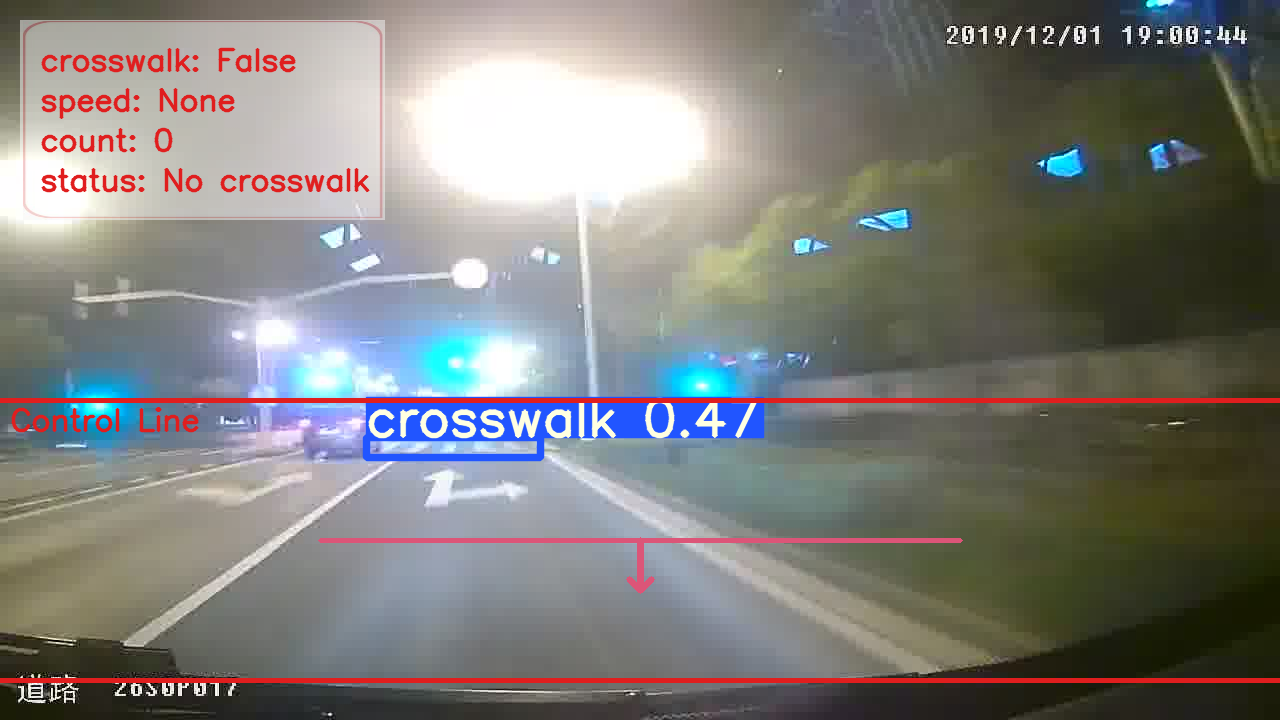
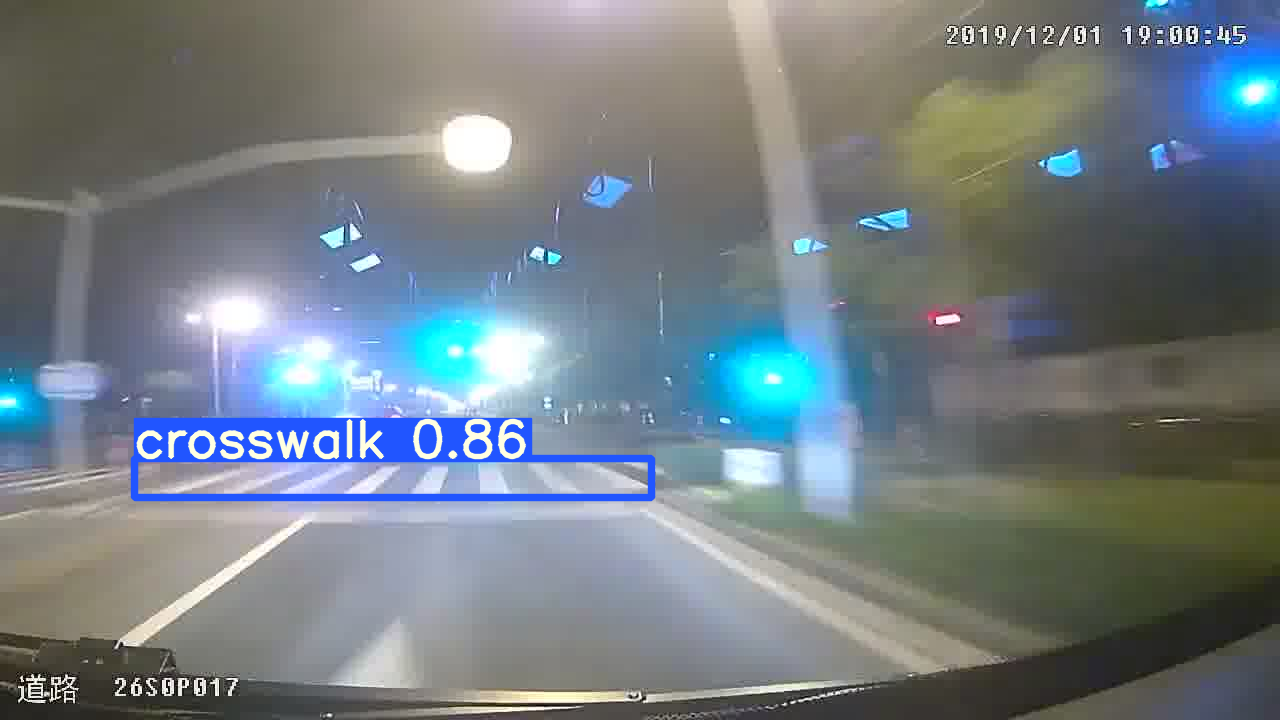
Parameters are specified as an option

diff --git a/road_detection/cdnet/post_utils.py b/road_detection/cdnet/post_utils.py
@@ -10,15 +10,15 @@ import numpy as np
 class DmPost(object):
     """damei post"""
 
-    def __init__(self):
+    def __init__(self, clrl):
         self.crossout = self.init_crossout()
         self.vetors = self.init_vectors()
         self.old_vectors, self.frame_thresh, self.old_fileorder = \
             self.init_jitter_pretection_params()  # Used for jitter protection
-        self.rect = self.init_rect()
+        self.rect = cv2.imread("settings/rect.jpg")
         self.t_inter = self.init_others()
-        self.control_line = (400, 680)
-        self.red_line = 0.5
+        self.control_line = clrl['control_line']
+        self.red_line = clrl['red_line']
         self.det_id = 0
         self.v_idx = 0
 
@@ -41,16 +41,12 @@ class DmPost(object):
 
         return vectors
 
-    def init_rect(self):
-        img_size = (720, 1280)
+    def init_rect(self, shape):
+        h, w = shape[:2]
         scale_factor = 3.5
-        resized_width = int(img_size[1] / scale_factor)
-
-        rect = cv2.imread("settings/rect.jpg")
+        resized_width = int(w / scale_factor)
         rect_resized_size = (resized_width, 200)
-        rect = cv2.resize(rect, rect_resized_size, interpolation=cv2.INTER_LINEAR)
-
-        return rect
+        self.rect = cv2.resize(self.rect, rect_resized_size, interpolation=cv2.INTER_LINEAR)
 
     def init_jitter_pretection_params(self, time_thresh=2):
         # The sampling rate of the original video, 1 frame corresponds to 1/25 = 40ms
@@ -113,7 +109,7 @@ class DmPost(object):
 
         cv2.line(img, top[0], top[1], color=(30, 30, 224), thickness=lt)
         cv2.line(img, button[0], button[1], color=(30, 30, 224), thickness=lt)
-        cv2.line(img, middle[0], middle[1], color=(120, 85, 220), thickness=lt)  # 粉色
+        cv2.line(img, middle[0], middle[1], color=(120, 85, 220), thickness=lt)  # pink
         cv2.arrowedLine(img, arrow[0], arrow[1], (120, 85, 220), 5, 8, 0, 0.3)
         cv2.putText(img, 'Control Line', textpos, 0, lt / 3, (30, 30, 224), thickness=tf, lineType=cv2.LINE_AA)
 
@@ -148,7 +144,7 @@ class DmPost(object):
                     distances = np.sum(np.square(currentcxy - lastcxy), axis=1)  # distance
                     valid_idx = np.argmin(distances)
 
-                print(f'WANING: detect.py post, the detected crosswalk is more than one, use the {valid_idx + 1} one')
+                print(f'WANING: the detected crosswalk is more than one, use the {valid_idx + 1} one')
                 crosswalk = crosswalk[valid_idx, :].reshape(1, -1)
                 det = det[valid_idx, :].reshape(1, -1)
         else:
@@ -163,7 +159,8 @@ class DmPost(object):
             crossout[det_id, 4:6] = crosswalk[0, 5: 7]  # xc, yc
             index = det_id
         else:
-            crossout[0:-1:, 1::] = crossout[1::, 1::]  # 除了序号列的所有行向上平移一格
+            # All rows except the serial number column are shifted up by one grid
+            crossout[0:-1:, 1::] = crossout[1::, 1::]
             # Last column update value
             crossout[-1, 1] = det_id
             crossout[-1, 2] = det_id
@@ -192,6 +189,7 @@ class DmPost(object):
         # The y distance of the vector is divided by the scale and then divided by the time interpolate
 
         # Draw results
+        self.init_rect(img.shape)
         rect_pos = (20, 20)
         img = self.imgAdd(self.rect, img, rect_pos[1], rect_pos[0], alpha=0.5)
 
@@ -234,7 +232,7 @@ class DmPost(object):
                     else:
                         crossout[index, 6] += 1  # count+1
                         prt_str = \
-                            f'\nThe vehicle crossed a crosswalk!!' \
+                            f'\n > The vehicle crossed a crosswalk!!' \
                             f' count+1, conf: {crosswalk[0, 4]:.2f},' \
                             f' current count: {int(crossout[index, 6])}.'
                         print(prt_str)
@@ -250,7 +248,7 @@ class DmPost(object):
         status = 'No crosswalk' if vt.shape[0] == 0 else 'Crossing'
         self.imgputText(img, f'status: {status}', pos, lt, tf)
 
-        prt_str = f'detect_id: {det_id} speed: {speed} count: {count} status: {status}'
+        prt_str = f' > detect_id: {det_id} speed: {speed} count: {count} status: {status}'
         print(prt_str)
 
         return img

diff --git a/road_detection/cdnet/cdnet.py b/road_detection/cdnet/cdnet.py
@@ -1,5 +1,6 @@
 import sys
 import time
+import yaml
 
 import numpy as np
 import cv2
@@ -28,10 +29,13 @@ WEIGHT_PATH = 'cdnet.onnx'
 MODEL_PATH = 'cdnet.onnx.prototxt'
 REMOTE_PATH = 'https://storage.googleapis.com/ailia-models/cdnet/'
 
-IMAGE_PATH = 'example/filename_00036.jpg'
+IMAGE_PATH = 'example/filename_00038.jpg'
 SAVE_IMAGE_PATH = 'output.png'
 
 IMAGE_SIZE = 640
+
+THRESHOLD = 0.4
+IOU = 0.5
 
 names = ['crosswalk', 'guide_arrows']
 
@@ -42,12 +46,40 @@ names = ['crosswalk', 'guide_arrows']
 parser = get_base_parser(
     'CDNet', IMAGE_PATH, SAVE_IMAGE_PATH
 )
+parser.add_argument(
+    '-th', '--threshold',
+    default=THRESHOLD, type=float,
+    help='object confidence threshold'
+)
+parser.add_argument(
+    '-iou', '--iou',
+    default=IOU, type=float,
+    help='IOU threshold for NMS'
+)
+parser.add_argument(
+    '--plot-classes', metavar='NAME', nargs='+',
+    default=('crosswalk',),
+    help='specifies which classes will be drawn. it is selected from (crosswalk, guide_arrows)'
+)
+parser.add_argument(
+    '--control-line-setting', type=str,
+    default='settings/cl_setting.yaml',
+    help='control line setting'
+)
 args = update_parser(parser)
 
 
 # ======================
 # Secondaty Functions
 # ======================
+
+def init_clrl():
+    conf_file = args.control_line_setting
+    with open(conf_file, 'r') as f:
+        conls = yaml.load(f, Loader=yaml.FullLoader)
+
+    return conls
+
 
 def sigmoid(x):
     return 1.0 / (1.0 + np.exp(-x))
@@ -150,7 +182,7 @@ def plot_one_box(x, img, color, label=None, line_thickness=None):
 
 
 def draw_result(img, pred):
-    plot_classes = ('crosswalk',)
+    plot_classes = args.plot_classes
 
     if pred is None:
         return img
@@ -173,6 +205,8 @@ cache = {
     "anchor_grid": np.load("anchor_grid.npy")
 }
 
+clrl = init_clrl()
+
 
 def preprocess(img):
     h, w = (IMAGE_SIZE, IMAGE_SIZE)
@@ -184,7 +218,7 @@ def preprocess(img):
     if ow != im_w or oh != im_h:
         img = cv2.resize(img, (ow, oh), interpolation=cv2.INTER_LINEAR)
 
-    control_line = (400, 680)
+    control_line = clrl['control_line']
     x1, x2 = 0, ow
     y1, y2 = control_line[0] / im_h * oh, control_line[1] / im_h * oh
     img = img[int(y1):int(y2), :]
@@ -233,6 +267,9 @@ def post_processing(x):
 
 
 def predict(net, img):
+    conf_thres = args.threshold
+    iou_thres = args.iou
+
     img, r, xy = preprocess(img)
 
     # feedforward
@@ -240,13 +277,10 @@ def predict(net, img):
 
     pred = post_processing(output)
 
-    conf_thres = 0.4
-    iou_thres = 0.5
     pred = non_max_suppression(
         pred, conf_thres, iou_thres)
 
     pred = pred[0]
-
     if pred is not None:
         pred[:, 0], pred[:, 2] = pred[:, 0] + xy[0], pred[:, 2] + xy[0]
         pred[:, 1], pred[:, 3] = pred[:, 1] + xy[1], pred[:, 3] + xy[1]
@@ -256,7 +290,7 @@ def predict(net, img):
 
 
 def recognize_from_image(net):
-    dp = DmPost()
+    dp = DmPost(clrl)
 
     # input image loop
     for image_path in args.input:
@@ -287,7 +321,10 @@ def recognize_from_image(net):
             pred = predict(net, img)
 
         img = draw_result(img, pred)
-        res_img = dp.dmpost(img, pred, names=names)
+        if 1 < len(args.input):
+            res_img = dp.dmpost(img, pred, names=names)
+        else:
+            res_img = img
 
         # plot result
         savepath = get_savepath(args.savepath, image_path, ext='.png')
@@ -313,6 +350,7 @@ def recognize_from_video(net):
     else:
         writer = None
 
+    dp = DmPost(clrl)
     while True:
         ret, frame = capture.read()
         if (cv2.waitKey(1) & 0xFF == ord('q')) or not ret:
@@ -322,7 +360,8 @@ def recognize_from_video(net):
         img = cv2.cvtColor(frame, cv2.COLOR_BGR2RGB)
         pred = predict(net, img)
 
-        res_img = draw_result(img, pred)
+        img = draw_result(img, pred)
+        res_img = dp.dmpost(img, pred, names=names)
 
         # show
         cv2.imshow('frame', res_img)
